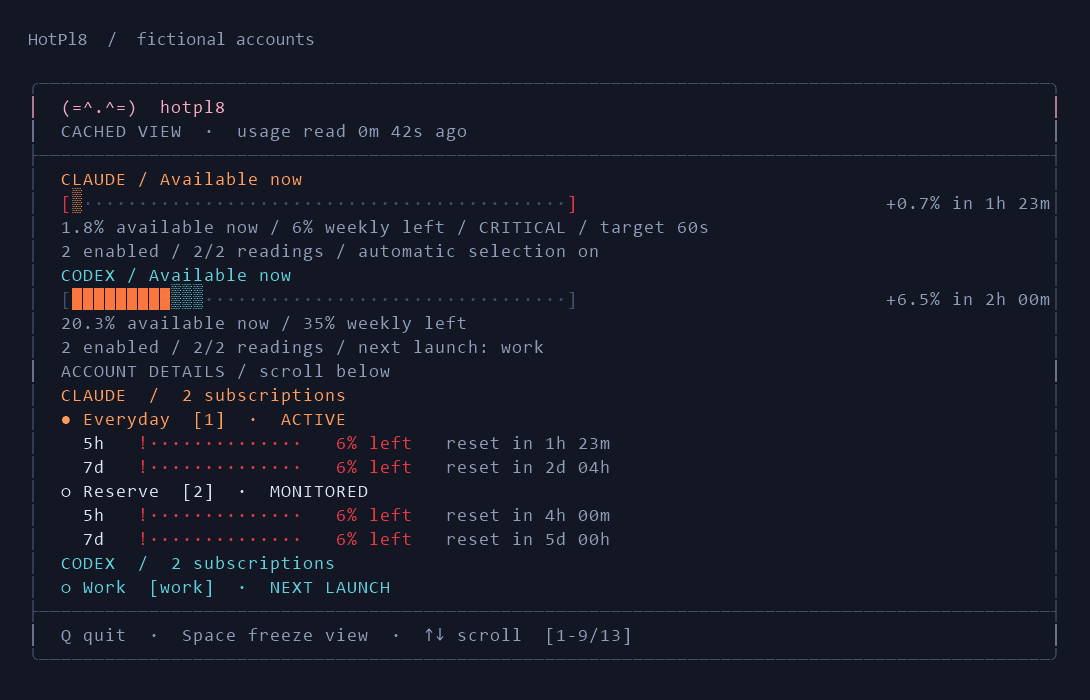
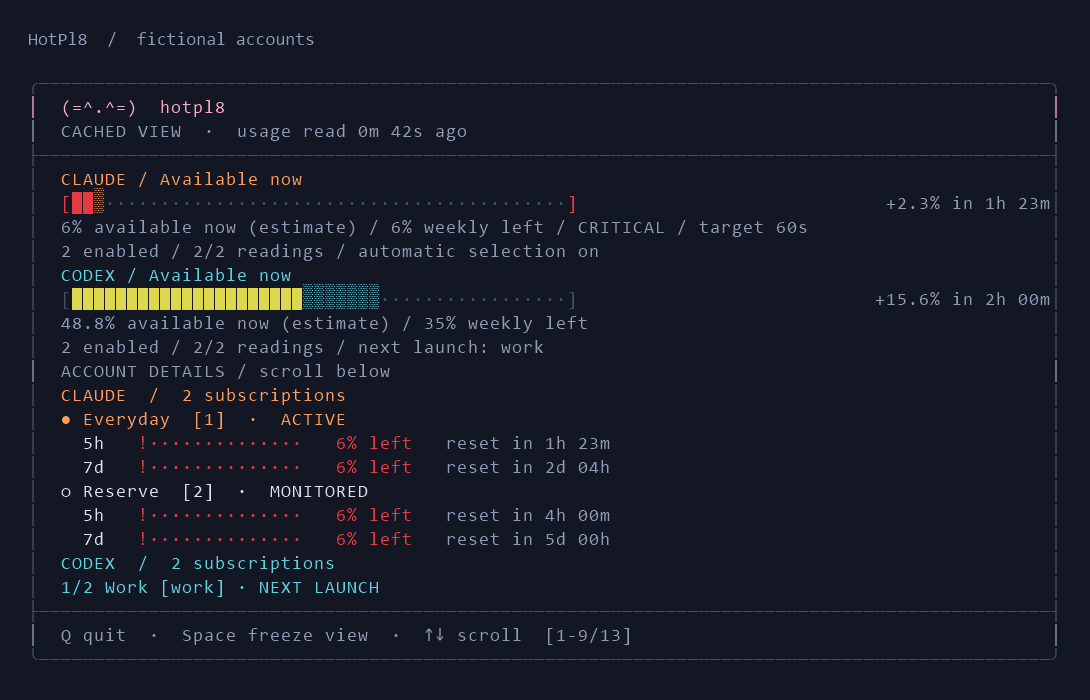
Correct current capacity and Codex details; protect state writes from readers

diff --git a/docs/capacity.md b/docs/capacity.md
@@ -2,7 +2,11 @@
 
 HotPl8 has one **Available now** bar per provider. Its solid foreground is estimated usable allowance under current limits and routing policy. The patterned extension is additional allowance at the first confirmed reset that increases availability within 24 hours, assuming no further consumption. Resets still blocked by other limits are skipped. With no positive refill in that horizon, no pattern appears. The clock reaching zero never turns a projection into measured capacity.
 
-The main bar never substitutes weekly inventory for current availability. Weekly remaining is small supporting text. When exact window conversions are missing, known plan session multipliers weight a quota-headroom estimate using each account's tightest remaining limit. This is an approximation of headroom, not a measured amount of compute; it does not silently populate the conversion catalogue. Missing readings or multi-account plan weights remain unknown. A paused/held/manual Claude configuration can leave allowance on other accounts outside the solid routed amount. The Codex summary always uses main Codex, excluding Spark; existing sessions retain their native account.
+The main bar measures the currently usable window: five-hour allowance when present, otherwise the actual weekly-only allowance. Three equal plans at 100%, 100% and 75% show **91.7% now**, with **+8.3%** when the depleted session resets. Weekly remaining is supporting text, not the denominator of that bar.
+
+Weekly and model limits reduce session capacity only after conversion into the same units. For example, if a full week is 1 unit and a full session is 0.3 units, 2% weekly remaining permits at most 0.02 / 0.3 = **6.7% of a session**. Taking the smaller raw percentage is incorrect. Without a verified conversion, known plan session multipliers weight the session estimate; weekly/model limits still block exhausted or policy-ineligible accounts. A positive weekly balance cannot be converted automatically from its percentage alone. At 20% weekly remaining or less, an unconverted limit is labeled **weekly cap uncertain**: actual usable capacity may be lower. These are estimates, not guaranteed prompt or token budgets.
+
+Missing readings or multi-account plan weights remain unknown. Calibrated account weights and plan multipliers are not mixed without a common basis. A paused/held/manual Claude configuration can leave allowance on other accounts outside the solid routed amount. The Codex summary always uses main Codex, excluding Spark; existing sessions retain their native account.
 
 A fresh, explicitly blocked Codex account with a measured zero contributes zero usable allowance and keeps its weight in the total. Forecasts keep that account at zero until a later observation clears the block: a quota reset does not necessarily remove a spend or account restriction. A known refill from another healthy account can still appear, with `projectionComplete: false` indicating that blocked-account recovery is excluded. Stale readings and unknown provider constraints remain unknown.
 
@@ -28,7 +32,7 @@ hotpl8 accounts -Operation capacity -Provider claude -Slot 1 -CapacityProfile cl
 
 **The values above are fictional examples, not Claude plan rates.** Use the same unit for every window/account within a provider. If one full weekly allowance is 1 unit and a larger plan demonstrably offers five times that weekly allowance, its weekly capacity is 5. Measure short-window conversion separately; never assume that a 50% short window equals half the weekly budget. Configuration records user estimates; no calibration prompts run automatically. `capacity.SLOT.scoped.MODEL` supplies a calibrated capacity for an explicitly constrained Claude model.
 
-For each account, current gross allowance is the smallest remaining amount across applicable windows after conversion. Selection margins, known blocks and holds determine which amount is admitted. Exhausted accounts remain in the denominator; disabled accounts leave it. Duplicate native identities count once. Extra credits and paid overage are not automatically included.
+For each account, current gross allowance is capped by applicable windows after conversion, then divided by its full session capacity (or full weekly-only capacity). The combined bar weights those capacities across accounts. Selection margins, known blocks and holds determine which amount is admitted. Exhausted accounts remain in the denominator; disabled accounts leave it. Duplicate native identities count once. Extra credits and paid overage are not automatically included.
 
 Use `hotpl8 status -AsJson` for `providerOverview.PROVIDER.immediate` (the displayed metric), or `hotpl8 explain` for current totals, projection, confidence and selection reasons. `capacity` retains the calibrated model and its unknown-conversion evidence. The older normalized weekly-headroom fields remain additive compatibility data. Both models expose a 24-hour projection horizon.
 

diff --git a/docs/provider-overview.md b/docs/provider-overview.md
@@ -2,12 +2,18 @@
 
 The pinned overview shows **Available now** for Claude and main Codex. Solid fill represents estimated usable allowance under current limits and routing policy. Weekly remaining is supporting text beneath the bar. Spark is excluded from the summary, dashboard details and tray; native data remains available in JSON.
 
-Configured window conversions produce a capacity estimate. Without them, recognized plans produce a **quota estimate**: take each account's smallest remaining percentage across short, weekly and configured model limits, apply routing/selection restrictions, then average using published plan session multipliers. This dimensionless headroom estimate is not an exact token budget or an inferred conversion between weekly and five-hour capacity. Unknown multi-account plan weights remain unknown. For example, accounts with 90% weekly remaining but exhausted short windows contribute zero now.
+For three equal plans with five-hour balances of **100%, 100%, and 75%**, the bar shows **91.7%**, reaching **100%** when the 75% account resets. A full session is the denominator; a weekly-only account uses its actual weekly window. Published session multipliers or calibrated capacities weight different plans.
+
+Weekly/model limits reduce that amount when a reliable window conversion exists. Otherwise they enforce exhaustion and policy gates without treating weekly and session percentages as interchangeable. A low weekly balance with no conversion is labeled **weekly cap uncertain**; actual capacity may be lower. Unknown multi-account plan weights remain unknown. Accounts with 90% weekly remaining but exhausted short windows contribute zero now.
 
 The patterned extension appears only for the **first positive refill within the next 24 hours**, including exactly 24 hours. A reset that adds nothing is skipped. Its countdown appears on the right; no later refill is hatched. Missing readings are reported as `Partial: 2/3 measured; total unavailable`, never as a patterned region. Partial fill includes only the measured share of the full account set; it is not the total remaining balance. Projections assume no further consumption and unchanged policy. The clock reaching a reset never refills the solid bar without a fresh observation. [Capacity, critical mode and motion](capacity.md).
 
-The dashboard, CLI and tray consume the same `providerOverview.PROVIDER.immediate` JSON computation. Its `metric` identifies calibrated capacity versus estimated quota headroom. The original `capacity` and normalized weekly-headroom fields remain for compatibility. Codex's unconfirmed reset anchors restrict projections, not otherwise valid current quota percentages. Automatic Codex warming remains unavailable; weekly-only accounts report warming as not applicable.
+The dashboard, CLI and tray consume the same `providerOverview.PROVIDER.immediate` JSON computation. Each account exposes `confidence`, `weightBasis` and `unconvertedConstraints`. The original `capacity` and normalized weekly-headroom fields remain for compatibility. Codex's unconfirmed reset anchors restrict projections, not otherwise valid current quota percentages. Automatic Codex warming remains unavailable; weekly-only accounts report warming as not applicable.
+
+Codex details number each subscription (`1/2`, `2/2`) and show its label, unique slot ID and one availability verdict, such as **EXHAUSTED** or **NEXT LAUNCH**. A successfully read but exhausted account is not labeled available. Scroll the account details to see subsequent entries; the provider summaries stay pinned.
 
 ![Account details below the overview](assets/details.png)
+
+![Three equal Claude sessions: 91.7% now and an 8.3-point refill; two distinctly labeled Codex accounts](assets/session-capacity.png)
 
 ![Exhausted short windows: zero available now despite 90% weekly remaining](assets/available-now.png)

diff --git a/docs/troubleshooting.md b/docs/troubleshooting.md
@@ -24,6 +24,8 @@ Claude's adapter schedules idle usage reads about ten minutes apart, with jitter
 
 If a reading still expires, account details show its age and the overview identifies incomplete coverage. Enrollment is retained. Check `hotpl8 explain` for provider failures and `hotpl8 doctor` for a missing or stalled scheduler. Provider throttling, offline machines and expired authorization can still prevent fresh readings; HotPl8 must not turn those into a full balance or select stale accounts. Re-login is needed only when native account status indicates an authentication problem.
 
+On Windows, older dashboard readers can temporarily prevent the collector from replacing its state files. Update the collector **and restart open dashboards** to load the reader fix. Readers now allow atomic replacement; the writer briefly retries sharing violations while preserving the previous complete file. Persistent locks still fail visibly. Collector failure events include a safe category, source filename/line and, for recognized state files, `stateFile` and numeric `ioCode`; they never include native error messages or account paths. A state-file lock is not an authentication failure.
+
 ## Codex quota disappeared after a collection error
 
 Update to a build containing the sparse-cache recovery fix. Failed collection retains old account evidence as unavailable and clears recommendations. During backoff, skipped wakes do not extend the deadline. `failureStage` and `failureCode` in provider status distinguish safe error categories; native error messages are not exported. A successful quota read and unsupported warming are separate conditions. A secondary unknown meter does not invalidate the selected meter.

diff --git a/docs/screenshots.md b/docs/screenshots.md
@@ -21,3 +21,5 @@ Change the renderer for a UI change, or the fixture for a different documentatio
 Capacity fixtures declare fictional per-window weights. `nyan.png` uses the bundled attributed animation with a frozen frame; critical/unknown frames should be added or regenerated alongside main/detail screenshots. Both screenshot and terminal paths consume the same sanitized styled spans and palette.
 
 `available-now.png` shows the important counterexample: 90% weekly remaining, zero usable now, and a projected refill in five hours. It uses fictional detected Pro plans without window conversions, exercising the plan-weighted quota estimate.
+
+`session-capacity.png` shows three equal plans at 100%, 100% and 75% session allowance: 91.7% now, gaining 8.3 points at the next useful reset. Its two Codex accounts have distinct numbered headers, with one exhausted and the other ready for the next launch.
